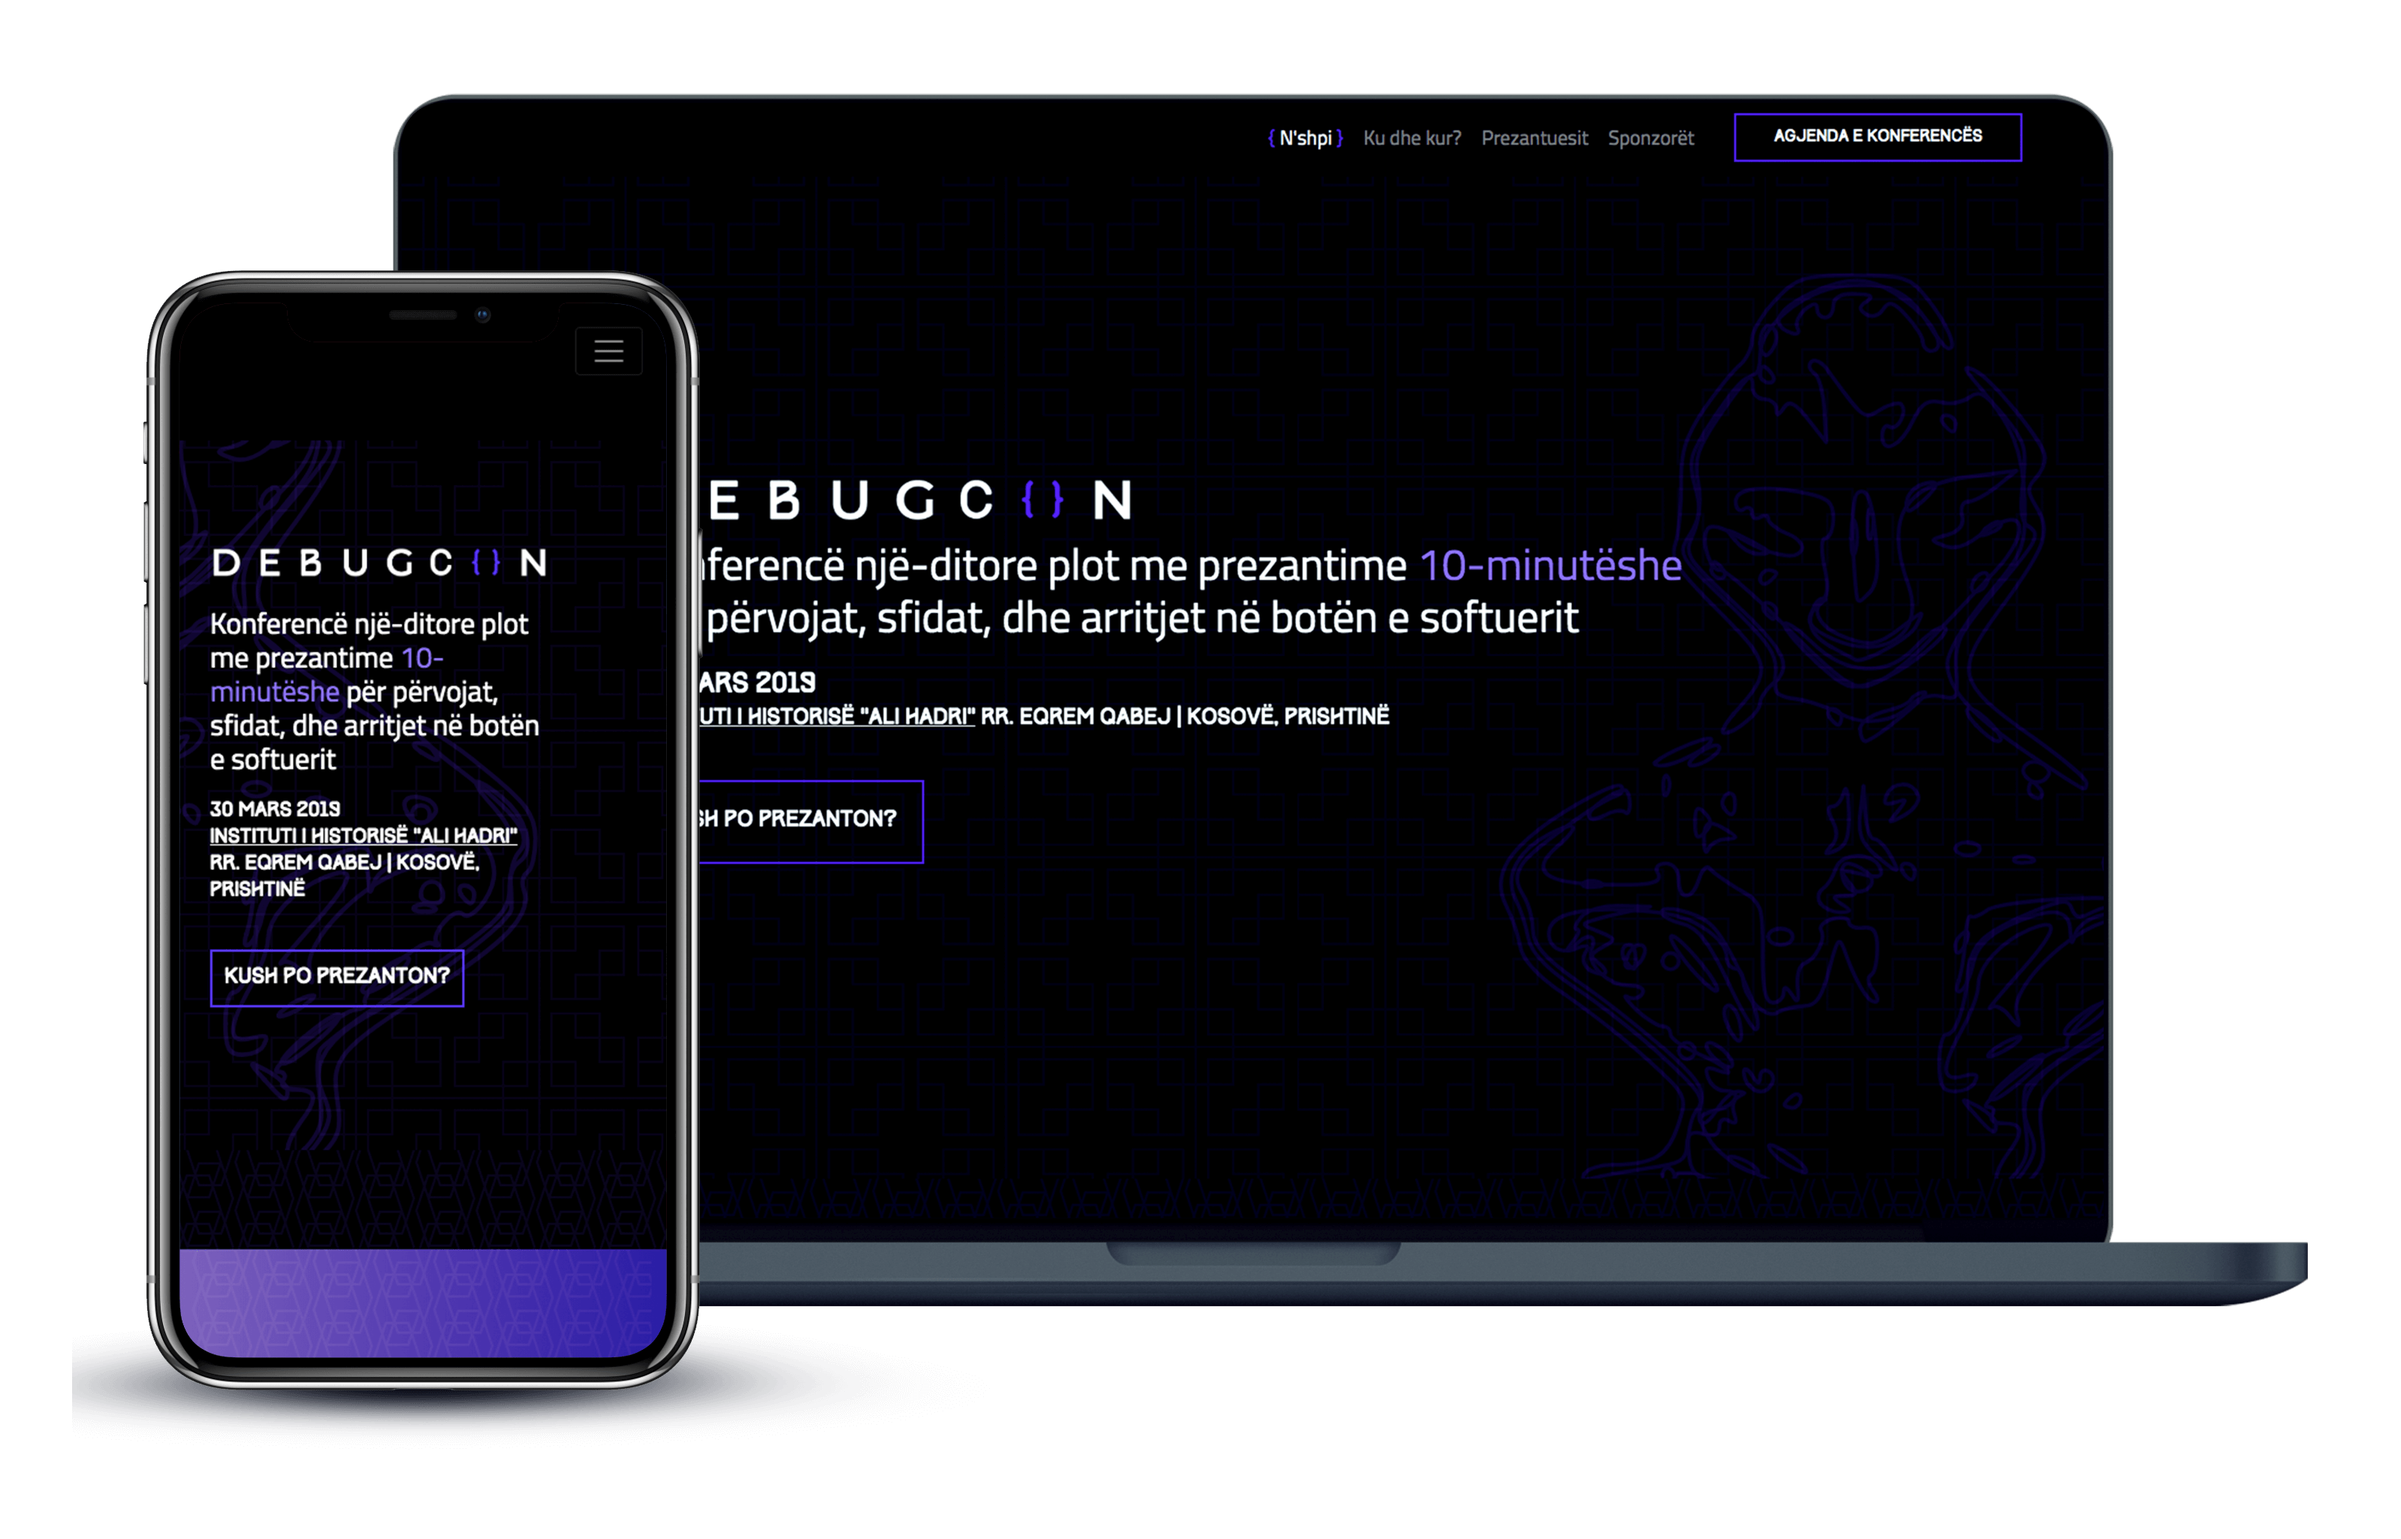
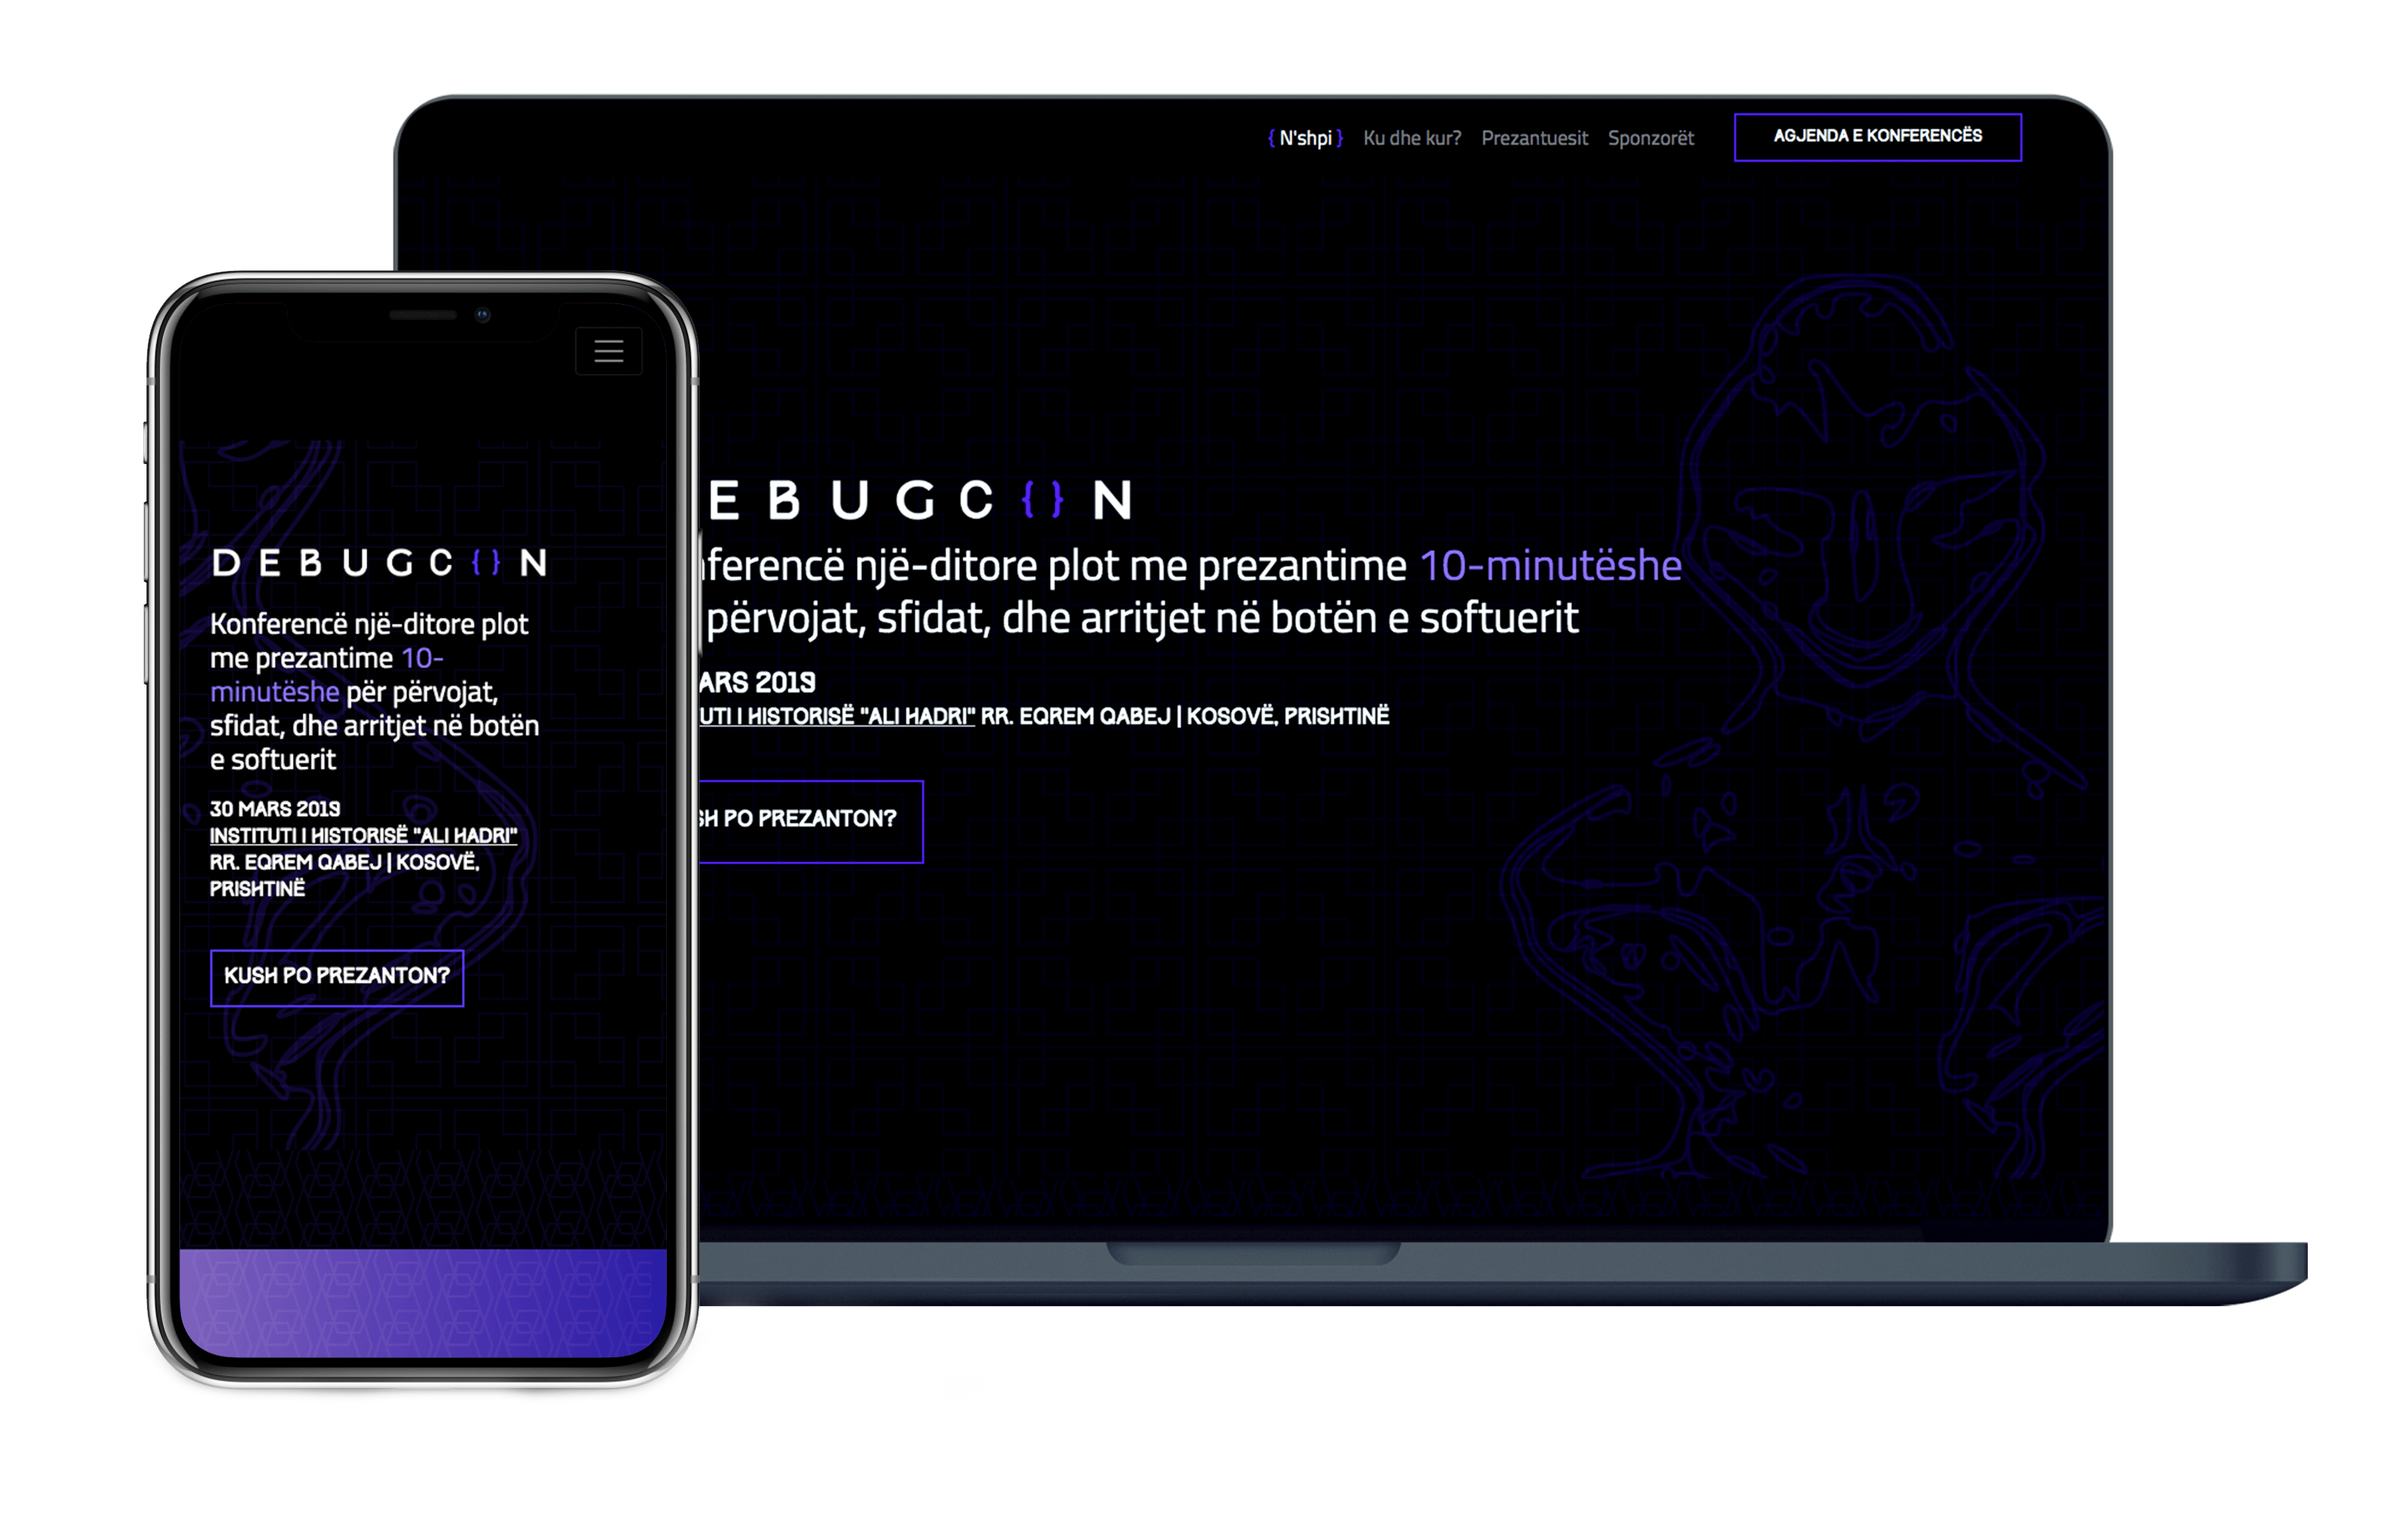
added shadows

Changed region(s): [[0.031, 0.8429, 0.3406, 0.9366]]

diff --git a/index.html b/index.html
@@ -252,7 +252,7 @@
         </div>
       </div>
       <div class="col-lg-6" data-aos="fade-up" data-aos-anchor-placement="center-bottom">
-        <img src="img/renkon.png" alt="Renkon">
+        <img src="img/renkonpng.png" alt="Renkon">
       </div>
     </div>
 
